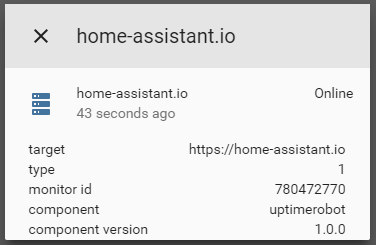
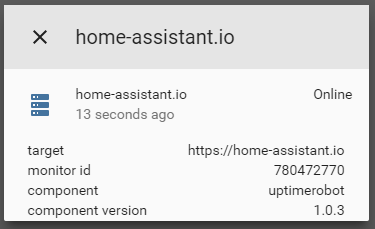
uptimeorbot 1.0.3 - moved conf var to import.

diff --git a/uptimerobot/custom_components/sensor/uptimerobot.py b/uptimerobot/custom_components/sensor/uptimerobot.py
@@ -9,13 +9,12 @@ from datetime import timedelta
 from homeassistant.helpers.entity import Entity
 import homeassistant.helpers.config_validation as cv
 from homeassistant.components.sensor import PLATFORM_SCHEMA
+from homeassistant.const import CONF_API_KEY
 
 REQUIREMENTS = ['pyuptimerobot==0.0.4']
 
-CONF_APIKEY = 'apikey'
 
 ATTR_TARGET = 'target'
-ATTR_TYPE = 'type'
 ATTR_MONITORID = 'monitor id'
 ATTR_COMPONENT = 'component'
 ATTR_COMPONENT_VERSION = 'component_version'
@@ -24,10 +23,10 @@ SCAN_INTERVAL = timedelta(seconds=30)
 
 ICON = 'mdi:server'
 COMPONENT_NAME = 'uptimerobot'
-COMPONENT_VERSION = '1.0.2'
+COMPONENT_VERSION = '1.0.3'
 
 PLATFORM_SCHEMA = PLATFORM_SCHEMA.extend({
-    vol.Required(CONF_APIKEY): cv.string,
+    vol.Required(CONF_API_KEY): cv.string,
 })
 
 _LOGGER = logging.getLogger(__name__)
@@ -36,7 +35,7 @@ def setup_platform(hass, config, add_devices_callback, discovery_info=None):
     """Set up the Uptime Robot sensors."""
     from pyuptimerobot import UptimeRobot
     ur = UptimeRobot()
-    apikey = config.get(CONF_APIKEY)
+    apikey = config.get(CONF_API_KEY)
     monitors = ur.getMonitors(apikey)
     _LOGGER.debug(monitors)
     dev = []
@@ -49,20 +48,18 @@ def setup_platform(hass, config, add_devices_callback, discovery_info=None):
             monitorid = monitor['id']
             name = monitor['friendly_name']
             target = monitor['url']
-            type = monitor['type']
-            dev.append(UptimeRobotSensor(apikey, monitorid, name, target, type, ur))
+            dev.append(UptimeRobotSensor(apikey, monitorid, name, target, ur))
         add_devices_callback(dev, True)
         return True
 
 class UptimeRobotSensor(Entity):
     """Representation of a Uptime Robot sensor."""
-    def __init__(self, apikey, monitorid, name, target, type, ur):
+    def __init__(self, apikey, monitorid, name, target, ur):
         self._name = name
         self._monitorid = monitorid
         self._apikey = apikey
         self._ur = ur
         self._target = target
-        self._type = type
         self._component = COMPONENT_NAME
         self._componentversion = COMPONENT_VERSION  
         self.update()
@@ -101,7 +98,6 @@ class UptimeRobotSensor(Entity):
         """Return the state attributes of the sensor."""
         return {
             ATTR_TARGET: self._target,
-            ATTR_TYPE: self._type,
             ATTR_MONITORID: self._monitorid,
             ATTR_COMPONENT: self._component,
             ATTR_COMPONENT_VERSION: self._componentversion

diff --git a/uptimerobot/README.md b/uptimerobot/README.md
@@ -1,5 +1,5 @@
 # custom_component to monitor Uptime Robot monitors.
-![Version](https://img.shields.io/badge/version-1.0.2-green.svg?style=for-the-badge)
+![Version](https://img.shields.io/badge/version-1.0.3-green.svg?style=for-the-badge)
 
 A component which allows you to monitor Uptime Robot monitors. 
 
@@ -12,10 +12,13 @@ Example configuration.yaml:
 ```yaml
 sensor:
   - platform: uptimerobot
-    apikey: 'u432898-d2507e493b31217e6c64fd35'
+    api_key: u432898-d2507e493b31217e6c64fd35
 ```
- #### Sample overview
+**Sample overview:**
 ![Sample overview](overview.png)  
+**In a group**:  
+![Group overview](group.png)  
+
 [Demo](https://ha-test-uptimerobot.halfdecent.io)
 
 This component is using [https://uptimerobot.com/api](https://uptimerobot.com/api) to get the information.
